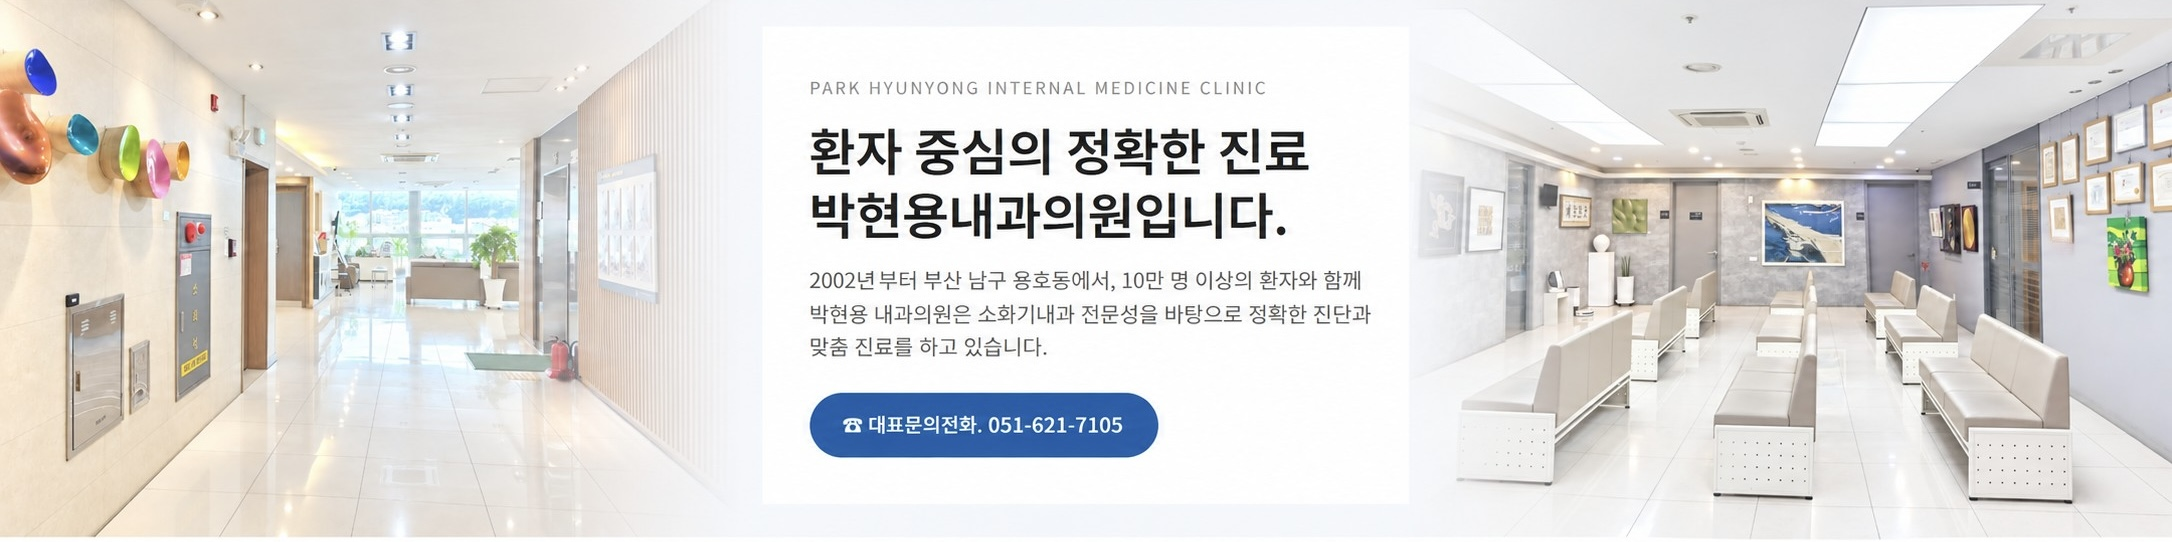
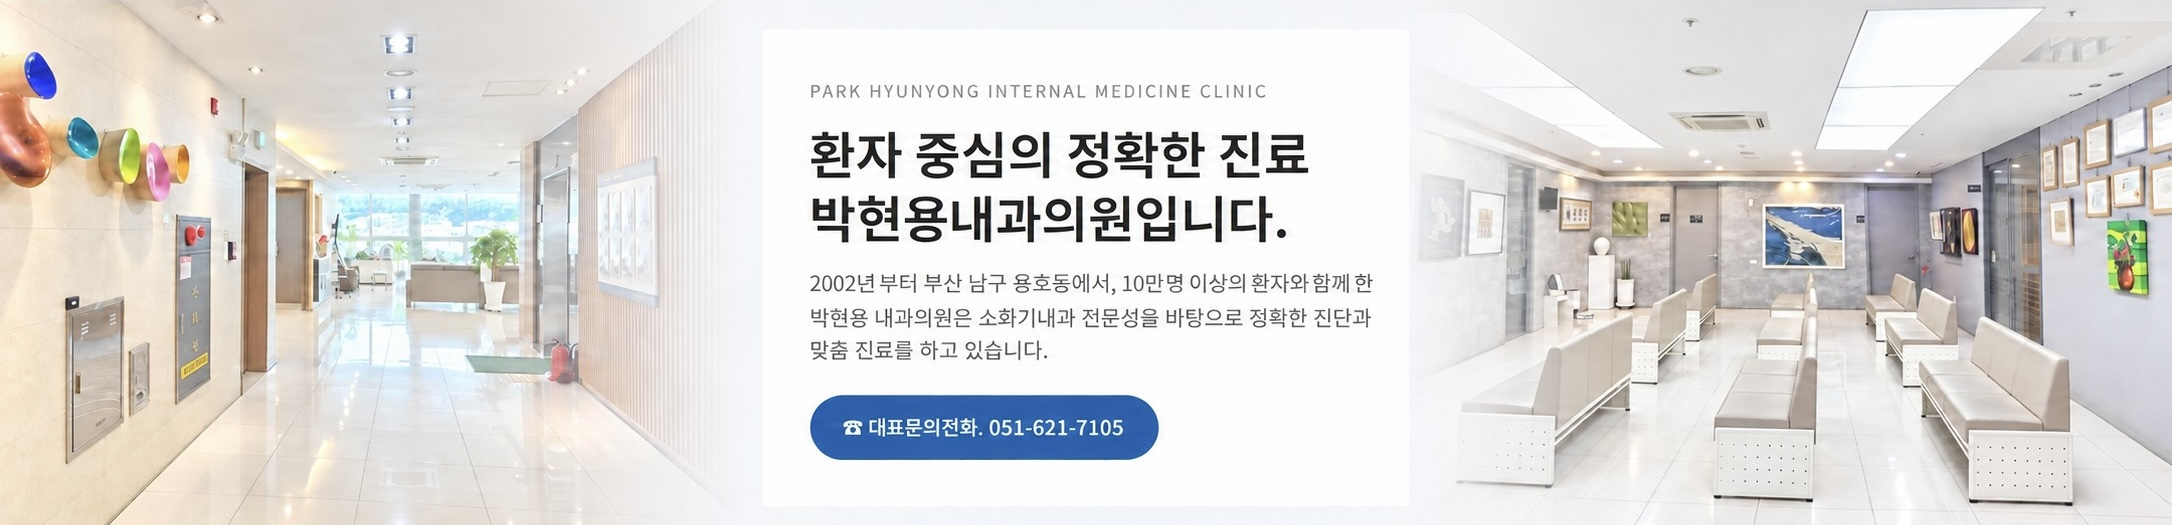
fix: content

diff --git a/clinics/endoscopy.html b/clinics/endoscopy.html
@@ -39,7 +39,7 @@
   <div class="detail-blocks">
     <div class="detail-block"><div class="k">① 무엇인가</div><div class="v">위·대장 점막을 직접 관찰해 염증, 궤양, 용종, 조기암 여부를 확인하는 검사입니다. 검사 중 용종이 발견되면 크기와 위치, 출혈 위험 등을 살펴본 뒤 안전하게 제거할 수 있는 경우 검사 당일 바로 절제까지 진행합니다.</div></div>
     <div class="detail-block"><div class="k">② 왜 필요한가 / 대상</div><div class="v">위·대장암은 초기에 특별한 증상이 없는 경우가 많아 정기적인 내시경 검사로 조기에 발견하는 것이 중요합니다. 국가 위암검진 대상인 40세 이상은 2년마다, 대장내시경은 통상 50세 이상 5년마다 권장되며, 가족력이나 용종 이력이 있는 경우 1~2년 간격으로 더 자주 받으시는 것이 좋습니다.</div></div>
-    <div class="detail-block eq"><div><div class="k">③ 사용 장비</div><div class="v">LCI(Linked Color Imaging) 기술이 적용된 내시경 장비를 사용합니다. 정상 조직과 병변의 미세한 색상 차이를 뚜렷하게 보여줘 조기위암, 대장용종 등의 발견율과 진단 정확도를 높입니다.</div></div><div class="thumb">사진: 장비</div></div>
+    <div class="detail-block eq"><div><div class="k">③ 사용 장비</div><div class="v">LCI(Linked Color Imaging) 기술이 적용된 내시경 장비를 사용합니다. 정상 조직과 병변의 미세한 색상 차이를 뚜렷하게 보여줘 조기위암, 대장용종 등의 발견율과 진단 정확도를 높입니다.</div></div></div>
     <div class="detail-block"><div class="k">④ 준비사항</div><div class="v">대장내시경은 검사 전 장을 비우는 과정이 필요합니다. 장 정결제는 알약, 물에 타서 마시는 약 등 종류가 다양하니 물을 많이 마시기 어려우신 경우 미리 말씀해 주세요. 구체적인 금식 시간은 예약 시 안내해 드립니다. <em>(세부 시간은 원장님 확인 후 업데이트 예정)</em></div></div>
     <div class="detail-block"><div class="k">⑤ 미니 FAQ</div></div>
     <div class="detail-block"><div class="k">Q. 대장내시경 검사를 받다가 용종이 발견되면 그날 바로 제거할 수 있나요?</div><div class="v">예, 가능한 경우에는 검사 당일 제거할 수 있습니다. 다만 발견된 모든 용종을 절제하기보다는 크기와 위치, 출혈 위험 등을 살펴본 뒤 안전하게 제거할 수 있을 때 시술합니다.</div></div><div class="detail-block"><div class="k">Q. 위내시경과 대장내시경 검사를 같은 날 받을 수 있나요?</div><div class="v">예, 가능합니다. 검사 전 건강 상태를 확인한 뒤 같은 날 진행할 수 있습니다.</div></div>

diff --git a/assets/style.css b/assets/style.css
@@ -224,17 +224,34 @@ a:focus-visible, button:focus-visible, .faq-q:focus-visible {
 .section .sub { font-size: 17px; color: var(--ink2); margin: 0 0 32px; }
 
 /* ---------- 4up category cards (home) ---------- */
+/* 카테고리 그리드 레이아웃 */
 .cat-grid {
   display: grid;
-  grid-template-columns: repeat(4, 1fr);
-  border-top: 1px solid var(--line);
-  border-bottom: 1px solid var(--line);
+  grid-template-columns: repeat(4, 1fr); /* PC에서는 4열 */
+  border-top: 1px solid #e2e8f0;         /* 전체 상단 선 */
+  border-left: 1px solid #e2e8f0;        /* 전체 좌측 선 */
 }
+
+/* 각 아이템 테두리 설정 (우측, 하단만 선을 주어 겹침 방지) */
 .cat-grid a {
+  display: flex;
+  flex-direction: column;
+  align-items: center;
+  justify-content: center;
   padding: 32px 20px;
-  text-align: center;
-  border-right: 1px solid var(--line);
-  color: var(--ink);
+  background-color: #ffffff;
+  border-right: 1px solid #e2e8f0;  /* 오른쪽 구분선 */
+  border-bottom: 1px solid #e2e8f0; /* 아래쪽 구분선 (가운데 가로선 역할) */
+  text-decoration: none;
+  transition: all 0.2s ease;
+  box-sizing: border-box;
+}
+
+/* 화면이 줄어들어 2열로 바뀔 때 (반응형 미디어 쿼리) */
+@media (max-width: 900px) {
+  .cat-grid {
+    grid-template-columns: repeat(2, 1fr); /* 2열 2행 배치 */
+  }
 }
 .cat-grid a:last-child { border-right: none; }
 
@@ -265,7 +282,7 @@ a:focus-visible, button:focus-visible, .faq-q:focus-visible {
   border: 2px solid var(--blue);
   border-radius: 50%;
 }
-.cat-grid .t { font-size: 17px; font-weight: 600; }
+.cat-grid .t { font-size: 17px; color: #111111; font-weight: 600; }
 .cat-grid .d { font-size: 15px; color: var(--ink3); margin-top: 2px; }
 
 @media (max-width: 760px) {
@@ -558,7 +575,7 @@ a:focus-visible, button:focus-visible, .faq-q:focus-visible {
 .popup-box {
   position: relative;
   background: #fff;
-  width: 100%; max-width: 600px;
+  width: 100%; max-width: 500px;
   border-radius: 8px; overflow: hidden;
   box-shadow: 0 10px 40px rgba(0,0,0,0.3);
 }

diff --git a/clinics/vaccine.html b/clinics/vaccine.html
@@ -34,12 +34,12 @@
 <div class="breadcrumb"><div class="wrap"><a href="../index.html">홈</a> &gt; <a href="../clinics.html">진료·검진센터</a> &gt; 독감·폐렴구균·대상포진 예방접종</div></div>
 <main>
 
-<div class="page-head"><div class="wrap"><h1>독감·폐렴구균·대상포진 예방접종</h1><p class="sub">계절과 연령에 맞는 예방접종 및 영양수액</p></div></div>
+<div class="page-head"><div class="wrap"><h1>계절과 연령에 맞는 예방접종 및 영양수액</h1><p class="sub">독감·폐렴구균·대상포진 예방접종</p></div></div>
 <section class="section"><div class="wrap">
   <div class="detail-blocks">
     <div class="detail-block"><div class="k">① 무엇인가</div><div class="v">독감, 폐렴구균, 대상포진 등 예방접종과 영양수액 처치를 제공합니다.</div></div>
     <div class="detail-block"><div class="k">② 왜 필요한가 / 대상</div><div class="v">특히 고령층과 만성질환자는 독감·폐렴 합병증 위험이 높아 예방접종이 권장됩니다.</div></div>
-    <div class="detail-block eq"><div><div class="k">③ 진행 방식</div><div class="v">표준 예방접종 프로토콜에 따라 문진 후 진행합니다.</div></div><div class="thumb">사진: 장비</div></div>
+    <div class="detail-block eq"><div><div class="k">③ 진행 방식</div><div class="v">표준 예방접종 프로토콜에 따라 문진 후 진행합니다.</div></div></div>
     <div class="detail-block"><div class="k">④ 준비사항</div><div class="v">컨디션이 좋지 않은 날은 접종을 미루시는 것이 안전합니다.</div></div>
     <div class="detail-block"><div class="k">⑤ 미니 FAQ</div></div>
     <div class="detail-block"><div class="v">이 진료와 관련된 자주 묻는 질문은 FAQ 페이지의 <a href="../faq.html#c3-2">"예방접종 & 영양수액 & 스트레스 측정"</a> 섹션에서 확인하실 수 있습니다.</div></div>

diff --git a/clinics/chronic.html b/clinics/chronic.html
@@ -39,7 +39,7 @@
   <div class="detail-blocks">
     <div class="detail-block"><div class="k">① 무엇인가</div><div class="v">혈당, 혈압, 콜레스테롤 수치를 정기적으로 관리하고 필요한 약물·수액 치료를 병행하는 만성질환 클리닉입니다.</div></div>
     <div class="detail-block"><div class="k">② 왜 필요한가 / 대상</div><div class="v">당뇨병과 고혈압은 꾸준한 관리가 합병증을 예방하는 핵심입니다. 대한당뇨병학회 평생회원, 대한고혈압학회 정회원으로 학회 활동을 이어오고 있습니다.</div></div>
-    <div class="detail-block eq"><div><div class="k">③ 관리 방식</div><div class="v">식사·운동 습관 상담과 약물치료를 병행하며, 필요한 경우 수액 치료를 함께 진행합니다.</div></div><div class="thumb">사진: 장비</div></div>
+    <div class="detail-block eq"><div><div class="k">③ 관리 방식</div><div class="v">식사·운동 습관 상담과 약물치료를 병행하며, 필요한 경우 수액 치료를 함께 진행합니다.</div></div></div>
     <div class="detail-block"><div class="k">④ 준비사항</div><div class="v">특별한 준비사항은 없으나, 복용 중인 약이 있다면 목록을 지참해 주시면 진료에 도움이 됩니다.</div></div>
     <div class="detail-block"><div class="k">⑤ 미니 FAQ</div></div>
     <div class="detail-block"><div class="k">Q. 당뇨 환자의 혈당 관리 및 수액 치료는 어떻게 진행되나요?</div><div class="v">혈당관리는 식사와 운동 습관을 살피고, 필요하면 약을 함께 사용합니다. 수액이 필요한 경우에는 현재 혈당과 몸 상태를 확인한 뒤 적절한 종류와 양을 결정합니다.</div></div>

diff --git a/clinics/ultrasound.html b/clinics/ultrasound.html
@@ -39,7 +39,7 @@
   <div class="detail-blocks">
     <div class="detail-block"><div class="k">① 무엇인가</div><div class="v">심장, 경동맥, 간, 담낭, 췌장, 갑상선 등 주요 장기의 구조와 상태를 초음파로 확인하는 비침습 검사입니다.</div></div>
     <div class="detail-block"><div class="k">② 왜 필요한가 / 대상</div><div class="v">지방간, 담석, 갑상선 결절 등은 자각 증상이 없는 경우가 많아 정기적인 초음파 검사로 조기에 확인하는 것이 안전합니다.</div></div>
-    <div class="detail-block eq"><div><div class="k">③ 사용 장비</div><div class="v">cSound 아키텍처 기반의 프리미엄 LOGIQ E10s 초음파 시스템으로 탁월한 해상도의 영상을 제공합니다.</div></div><div class="thumb">사진: 장비</div></div>
+    <div class="detail-block eq"><div><div class="k">③ 사용 장비</div><div class="v">cSound 아키텍처 기반의 프리미엄 LOGIQ E10s 초음파 시스템으로 탁월한 해상도의 영상을 제공합니다.</div></div></div>
     <div class="detail-block"><div class="k">④ 준비사항</div><div class="v">검사 항목에 따라 준비사항이 다를 수 있습니다 (예: 복부초음파는 금식이 필요할 수 있음). 예약 시 자세히 안내해 드립니다.</div></div>
     <div class="detail-block"><div class="k">⑤ 미니 FAQ</div></div>
     <div class="detail-block"><div class="v">이 진료와 관련된 자주 묻는 질문은 FAQ 페이지의 <a href="../faq.html#c1-2">"정밀 초음파 & 종합건강검진"</a> 섹션에서 확인하실 수 있습니다.</div></div>

diff --git a/clinics/checkup.html b/clinics/checkup.html
@@ -39,7 +39,7 @@
   <div class="detail-blocks">
     <div class="detail-block"><div class="k">① 무엇인가</div><div class="v">국민건강보험공단 국가건강검진과, 필요에 따라 내시경·초음파·특수검사를 더한 맞춤형 종합건강검진을 제공합니다.</div></div>
     <div class="detail-block"><div class="k">② 왜 필요한가 / 대상</div><div class="v">정기적인 건강검진은 만성질환과 암을 조기에 발견해 치료 시기를 앞당기는 가장 확실한 방법입니다.</div></div>
-    <div class="detail-block eq"><div><div class="k">③ 검진 장비</div><div class="v">내시경, 초음파, 골밀도 측정기, 유방촬영장치 등 검진에 필요한 장비를 한 병원에서 이용할 수 있습니다.</div></div><div class="thumb">사진: 장비</div></div>
+    <div class="detail-block eq"><div><div class="k">③ 검진 장비</div><div class="v">내시경, 초음파, 골밀도 측정기, 유방촬영장치 등 검진에 필요한 장비를 한 병원에서 이용할 수 있습니다.</div></div></div>
     <div class="detail-block"><div class="k">④ 준비사항</div><div class="v">검진 항목에 따라 금식 등 준비사항이 다릅니다. 예약 시 항목별로 자세히 안내해 드립니다.</div></div>
     <div class="detail-block"><div class="k">⑤ 미니 FAQ</div></div>
     <div class="detail-block"><div class="v">이 진료와 관련된 자주 묻는 질문은 FAQ 페이지의 <a href="../faq.html#c1-2">"정밀 초음파 & 종합건강검진"</a> 섹션에서 확인하실 수 있습니다.</div></div>

diff --git a/clinics/stress.html b/clinics/stress.html
@@ -39,7 +39,7 @@
   <div class="detail-blocks">
     <div class="detail-block"><div class="k">① 무엇인가</div><div class="v">뇌파와 맥파의 생체신호를 측정해 스트레스와 자율신경 건강 상태를 확인하는 검사입니다.</div></div>
     <div class="detail-block"><div class="k">② 왜 필요한가 / 대상</div><div class="v">만성 스트레스는 다양한 신체 질환과 연관이 있어, 정기적인 확인이 건강 관리에 도움이 됩니다.</div></div>
-    <div class="detail-block eq"><div><div class="k">③ 사용 장비</div><div class="v">옴니핏 마인드케어 솔루션을 사용합니다. 검사에는 약 1분이 소요됩니다.</div></div><div class="thumb">사진: 장비</div></div>
+    <div class="detail-block eq"><div><div class="k">③ 사용 장비</div><div class="v">옴니핏 마인드케어 솔루션을 사용합니다. 검사에는 약 1분이 소요됩니다.</div></div></div>
     <div class="detail-block"><div class="k">④ 준비사항</div><div class="v">별도의 준비사항은 없습니다.</div></div>
     <div class="detail-block"><div class="k">⑤ 미니 FAQ</div></div>
     <div class="detail-block"><div class="v">이 진료와 관련된 자주 묻는 질문은 FAQ 페이지의 <a href="../faq.html#c3-2">"예방접종 & 영양수액 & 스트레스 측정"</a> 섹션에서 확인하실 수 있습니다.</div></div>

diff --git a/clinics/mammography.html b/clinics/mammography.html
@@ -40,7 +40,7 @@
   <div class="detail-blocks">
     <div class="detail-block"><div class="k">① 무엇인가</div><div class="v">디지털 유방촬영 장비로 유방 조직을 영상화해 이상 유무를 확인하는 검사입니다.</div></div>
     <div class="detail-block"><div class="k">② 왜 필요한가 / 대상</div><div class="v">유방암은 조기에 발견할수록 치료 성공률이 높아, 40세 이상 여성은 국가 검진을 통해 2년마다 검사받으실 것을 권장합니다.</div></div>
-    <div class="detail-block eq"><div><div class="k">③ 사용 장비</div><div class="v">디지털 유방촬영장치를 사용합니다.</div></div><div class="thumb">사진: 장비</div></div>
+    <div class="detail-block eq"><div><div class="k">③ 사용 장비</div><div class="v">디지털 유방촬영장치를 사용합니다.</div></div></div>
     <div class="detail-block"><div class="k">④ 준비사항</div><div class="v">검사 당일에는 로션, 파우더, 데오드란트 사용을 피해주시는 것이 좋습니다.</div></div>
     <div class="detail-block"><div class="k">⑤ 미니 FAQ</div></div>
     <div class="detail-block"><div class="v">이 진료와 관련된 자주 묻는 질문은 FAQ 페이지의 <a href="../faq.html#c1-3">"유방촬영 & 골밀도 & 특수검사"</a> 섹션에서 확인하실 수 있습니다.</div></div>

diff --git a/clinics/bone-density.html b/clinics/bone-density.html
@@ -39,7 +39,7 @@
   <div class="detail-blocks">
     <div class="detail-block"><div class="k">① 무엇인가</div><div class="v">뼈의 밀도를 측정해 골다공증 여부와 골절 위험도를 확인하는 검사입니다.</div></div>
     <div class="detail-block"><div class="k">② 왜 필요한가 / 대상</div><div class="v">골다공증은 특별한 증상 없이 진행되다 골절로 처음 발견되는 경우가 많아, 폐경 이후 여성과 고령층은 정기 검사가 권장됩니다.</div></div>
-    <div class="detail-block eq"><div><div class="k">③ 사용 장비</div><div class="v">최신 골밀도 측정기 DexxumT Quantum을 사용합니다.</div></div><div class="thumb">사진: 장비</div></div>
+    <div class="detail-block eq"><div><div class="k">③ 사용 장비</div><div class="v">최신 골밀도 측정기 DexxumT Quantum을 사용합니다.</div></div></div>
     <div class="detail-block"><div class="k">④ 준비사항</div><div class="v">별도의 금식이 필요하지 않습니다.</div></div>
     <div class="detail-block"><div class="k">⑤ 미니 FAQ</div></div>
     <div class="detail-block"><div class="v">이 진료와 관련된 자주 묻는 질문은 FAQ 페이지의 <a href="../faq.html#c1-3">"유방촬영 & 골밀도 & 특수검사"</a> 섹션에서 확인하실 수 있습니다.</div></div>

diff --git a/clinics/lung.html b/clinics/lung.html
@@ -39,7 +39,7 @@
   <div class="detail-blocks">
     <div class="detail-block"><div class="k">① 무엇인가</div><div class="v">폐기능검사와 흉부X선을 통해 폐 기능과 폐 질환 여부를 확인합니다.</div></div>
     <div class="detail-block"><div class="k">② 왜 필요한가 / 대상</div><div class="v">기침이 오래가거나 흡연력이 있으신 분들, 정기 건강검진 대상자에게 권장되는 검사입니다.</div></div>
-    <div class="detail-block eq"><div><div class="k">③ 사용 장비</div><div class="v">흉부X선 촬영 장비를 사용합니다.</div></div><div class="thumb">사진: 장비</div></div>
+    <div class="detail-block eq"><div><div class="k">③ 사용 장비</div><div class="v">흉부X선 촬영 장비를 사용합니다.</div></div></div>
     <div class="detail-block"><div class="k">④ 준비사항</div><div class="v">별도의 준비사항은 없습니다.</div></div>
     <div class="detail-block"><div class="k">⑤ 미니 FAQ</div></div>
     <div class="detail-block"><div class="v">이 진료와 관련된 자주 묻는 질문은 FAQ 페이지의 <a href="../faq.html#c1-3">"유방촬영 & 골밀도 & 특수검사"</a> 섹션에서 확인하실 수 있습니다.</div></div>

diff --git a/index.html b/index.html
@@ -94,7 +94,7 @@
     </a>
     <a href="clinics/chronic.html">
       <div class="t">만성질환 관리</div>
-      <div class="d">당뇨병·고혈압</div>
+      <div class="d">당뇨병·고혈압·고지혈증</div>
       <span class="btn-more">자세히 보기 →</span>
     </a>
     <a href="clinics/vaccine.html">
